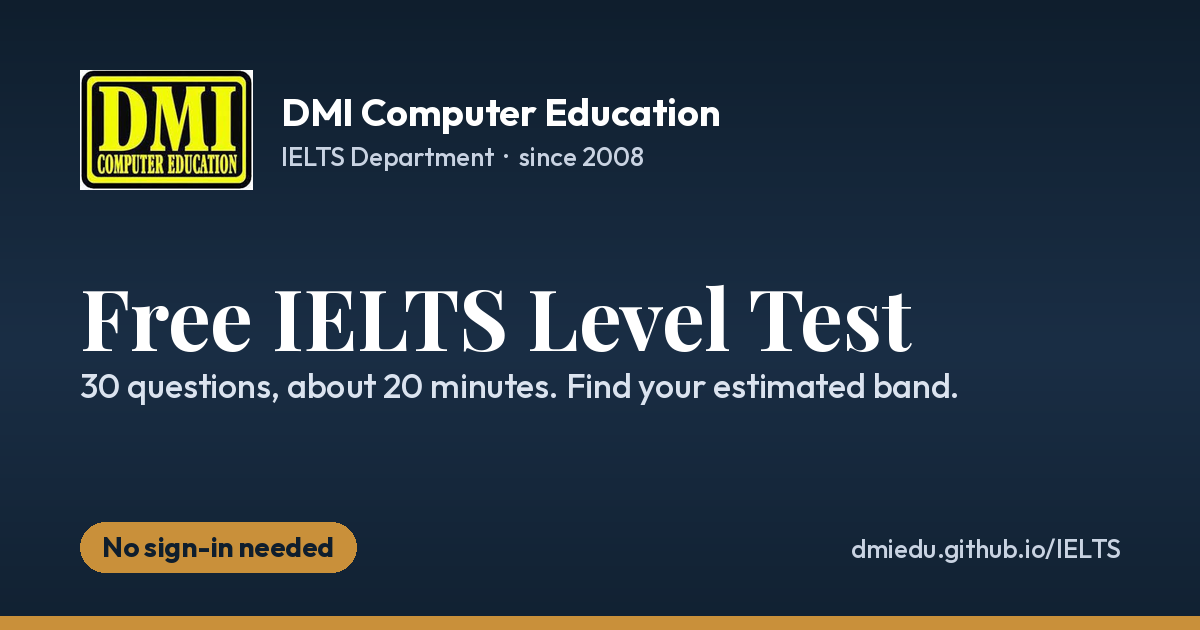
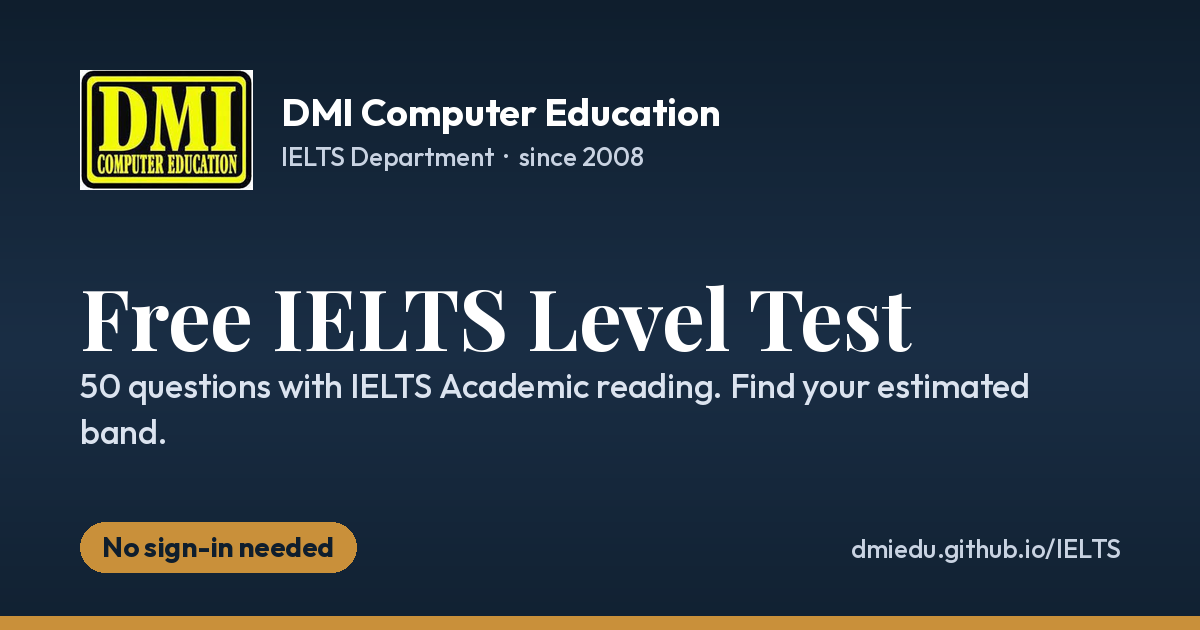
Level test v2: 20 harder questions (C1 grammar/vocab, IELTS Academic reading with T/F/NG and typed answers), hard questions count double, band gates
Claude-Session: https://claude.ai/code/session_01TiCaFNdJkSXZtjbJFcomrq

Changed region(s): [[0.185, 0.573, 0.8633, 0.6333], [0.0617, 0.6635, 0.1542, 0.7238], [0.0617, 0.6032, 0.1233, 0.6333]]

diff --git a/level-test/index.html b/level-test/index.html
@@ -4,10 +4,10 @@
   <meta charset="utf-8">
   <meta name="viewport" content="width=device-width, initial-scale=1">
   <title>Free IELTS Level Test | DMI</title>
-  <meta name="description" content="Free 20-minute English level test from DMI Computer Education. Find your estimated IELTS band in grammar, vocabulary and reading. No sign-in needed.">
+  <meta name="description" content="Free English level check from DMI Computer Education: grammar, vocabulary and an IELTS Academic reading passage. Find your estimated IELTS band. No sign-in needed.">
   <meta property="og:type" content="website">
   <meta property="og:title" content="Free IELTS Level Test | DMI Computer Education">
-  <meta property="og:description" content="30 questions, about 20 minutes. Find your estimated IELTS band for free.">
+  <meta property="og:description" content="50 questions, about 35 minutes, including IELTS Academic reading. Find your estimated band for free.">
   <meta property="og:url" content="https://dmiedu.github.io/IELTS/level-test/">
   <meta property="og:image" content="https://dmiedu.github.io/IELTS/og-level-test.png">
   <meta property="og:image:width" content="1200">
@@ -78,6 +78,12 @@
     .opt.sel { border-color: var(--blue); background: #eaf0f9; }
     .opt.sel .l { background: var(--blue); border-color: var(--blue); color: #fff; }
     .err { color: var(--red); font-weight: 600; font-size: 14.5px; margin: 10px 0 0; }
+    .q-note { margin: 18px 0 8px; font-weight: 700; font-size: 14.5px; color: var(--blue); }
+    .q.hard { border-left: 4px solid var(--gold); }
+    .passage.hard { border-color: var(--gold); }
+    .passage p + p { margin-top: 10px; }
+    .opts.three { grid-template-columns: repeat(3, minmax(0, 1fr)); }
+    .typed { font: inherit; font-size: 16px; padding: 10px 12px; border: 1px solid var(--line); border-radius: 8px; background: var(--soft); color: var(--ink); width: 100%; max-width: 420px; }
 
     .form { display: grid; grid-template-columns: 1fr 1fr; gap: 14px; }
     .form label { display: flex; flex-direction: column; gap: 5px; font-weight: 600; font-size: 14px; min-width: 0; }
@@ -104,7 +110,7 @@
     @media print { body > * { display: none !important; } }
     @media (max-width: 680px) {
       .facts { grid-template-columns: 1fr 1fr; }
-      .opts, .form { grid-template-columns: 1fr; }
+      .opts, .opts.three, .form { grid-template-columns: 1fr; }
       .brand span { display: none; }
       .brand img { height: 34px; }
       .card { padding: 16px; }
@@ -124,19 +130,20 @@
     <!-- Screen 1: intro -->
     <section id="intro">
       <h1>What is your English level for IELTS?</h1>
-      <p class="lede">Take this free test and get your estimated IELTS band in about 20 minutes. No sign-in needed.</p>
+      <p class="lede">Take this free level check and get your estimated IELTS band in about 35 minutes. No sign-in needed.</p>
       <div class="facts">
-        <div class="fact"><b>30</b><span>questions</span></div>
-        <div class="fact"><b>~20</b><span>minutes</span></div>
+        <div class="fact"><b>50</b><span>questions</span></div>
+        <div class="fact"><b>~35</b><span>minutes</span></div>
         <div class="fact"><b>3</b><span>sections</span></div>
         <div class="fact"><b>Free</b><span>no sign-in</span></div>
       </div>
       <div class="card">
         <h2>How it works</h2>
         <ul class="plain">
-          <li><b>Grammar</b>: 10 questions, from easy to hard.</li>
-          <li><b>Vocabulary</b>: 10 questions.</li>
-          <li><b>Reading</b>: two short passages with 5 questions each.</li>
+          <li><b>Grammar</b>: 15 questions, from easy to hard.</li>
+          <li><b>Vocabulary</b>: 15 questions, from everyday to academic words.</li>
+          <li><b>Reading</b>: two short passages and one IELTS Academic passage with True/False/Not Given and typed answers.</li>
+          <li>The last questions in each section are harder and count double. You need good marks on them to get Band 6.0 or above.</li>
           <li>At the end, enter your name and WhatsApp number to see your estimated band. A DMI advisor can then help you plan your IELTS preparation.</li>
         </ul>
         <div class="actions"><button class="go" type="button" id="startBtn">Start the test</button></div>
@@ -145,7 +152,7 @@
 
     <!-- Screen 2: test -->
     <section id="test" hidden>
-      <div class="bar"><div class="progress" aria-hidden="true"><i id="pbar"></i></div><span class="ptxt" id="ptxt">0 / 30 answered</span></div>
+      <div class="bar"><div class="progress" aria-hidden="true"><i id="pbar"></i></div><span class="ptxt" id="ptxt">0 / 50 answered</span></div>
       <div id="paper"></div>
       <p class="err" id="testErr" hidden></p>
       <div class="actions"><button class="go" type="button" id="finishBtn">Finish and see my band</button></div>
@@ -189,9 +196,13 @@
     var RESULTS_URL = "https://script.google.com/macros/s/AKfycbwLkFpHNFGyaKrFv0Lfji6y75OdX13L21l7Q3A81jYujsRSHYigDUgCfqxhcsBUfoKqag/exec";
     var WA = "94777173517"; // DMI WhatsApp hotline 0777 17 35 17
 
-    // [question, correct, wrong, wrong, wrong]  (correct first; options are shuffled for display)
+    // Question formats:
+    //   [question, correct, wrong, wrong, wrong]                 multiple choice (options shuffled)
+    //   { q, tfng: "True" | "False" | "Not Given" }             True / False / Not Given (fixed order)
+    //   { q, typed: ["answer", "variant"], limit: 2 }           typed answer, word limit
+    // hard: true  = Part B question, worth 2 points.
     var SECTIONS = [
-      { key: "grammar", title: "Grammar", sub: "Choose the correct word or words.", qs: [
+      { key: "grammar", title: "Grammar", sub: "Choose the correct word or words. Questions get harder as you go.", qs: [
         ["My sister ____ in a bank in Jaffna.", "works", "work", "working", "is work"],
         ["We ____ to Colombo last weekend.", "went", "go", "have gone", "going"],
         ["There aren't ____ buses on Sunday.", "many", "much", "a few of", "lot"],
@@ -201,7 +212,12 @@
         ["The new hospital ____ by the government in 2019.", "was built", "built", "has built", "was build"],
         ["I'm looking forward to ____ you at the meeting.", "seeing", "see", "saw", "be seen"],
         ["By the time we arrived, the film ____.", "had already started", "already starts", "has already started", "was already start"],
-        ["Hardly ____ the station when the train left.", "had I reached", "I had reached", "I reached", "did I reached"]
+        ["Hardly ____ the station when the train left.", "had I reached", "I had reached", "I reached", "did I reached"],
+        { hard: true, mc: ["Not until the results were published ____ how serious the problem was.", "did we realise", "we realised", "we did realise", "realised we"] },
+        { hard: true, mc: ["If she ____ the instructions more carefully, she wouldn't have made that mistake.", "had read", "read", "would read", "has read"] },
+        { hard: true, mc: ["The project, ____ was funded by an international bank, was completed in 2021.", "which", "that", "who", "what"] },
+        { hard: true, mc: ["The number of applicants ____ risen sharply since 2020.", "has", "have", "are", "is"] },
+        { hard: true, mc: ["Rarely ____ such a clear improvement in a single term.", "have we seen", "we have seen", "we saw", "did we saw"] }
       ]},
       { key: "vocab", title: "Vocabulary", sub: "Choose the best word.", qs: [
         ["Please ____ the form and give it to the receptionist.", "fill in", "fill on", "fill at", "fill with"],
@@ -213,10 +229,15 @@
         ["We need to ____ a decision before Friday.", "make", "do", "get", "put"],
         ["The new law aims to ____ pollution in cities.", "reduce", "rise", "arise", "deduce"],
         ["Despite the heavy rain, the match went ____ as planned.", "ahead", "after", "into", "under"],
-        ["Her argument was so ____ that everyone agreed with her.", "convincing", "confusing", "boring", "weak"]
+        ["Her argument was so ____ that everyone agreed with her.", "convincing", "confusing", "boring", "weak"],
+        { hard: true, mc: ["The new policy had an ____ effect on small farmers, who lost much of their income.", "adverse", "averse", "adversary", "advent"] },
+        { hard: true, mc: ["The evidence is ____: it does not prove anything either way.", "inconclusive", "conclusive", "inclusive", "exclusive"] },
+        { hard: true, mc: ["Governments must ____ the impact of rising prices on poor families.", "mitigate", "militate", "migrate", "magnify"] },
+        { hard: true, mc: ["The report ____ several reasons for the fall in tourism.", "cites", "sights", "sites", "sighted"] },
+        { hard: true, mc: ["A ____ increase is one that is too small to be important.", "negligible", "substantial", "considerable", "remarkable"] }
       ]},
-      { key: "reading", title: "Reading", sub: "Read each passage, then answer the questions.", passages: [
-        { title: "Kamala's Bakery", text: "Kamala opened a small bakery in Point Pedro in 2018. At first she sold only bread and buns, and she baked everything herself, starting at four o'clock every morning. Within two years, the bakery had become so popular that she hired three assistants and added cakes and short eats to the menu. Last year, Kamala started taking orders through WhatsApp. Now almost half of her sales come from online orders, mostly birthday cakes. She says the biggest challenge is not baking but delivery, because she has only one motorbike. Next year, she hopes to open a second shop in Jaffna town.",
+      { key: "reading", title: "Reading", sub: "Read each passage, then answer the questions. Passage 3 is at IELTS Academic level.", passages: [
+        { title: "Passage 1: Kamala's Bakery", text: ["Kamala opened a small bakery in Point Pedro in 2018. At first she sold only bread and buns, and she baked everything herself, starting at four o'clock every morning. Within two years, the bakery had become so popular that she hired three assistants and added cakes and short eats to the menu. Last year, Kamala started taking orders through WhatsApp. Now almost half of her sales come from online orders, mostly birthday cakes. She says the biggest challenge is not baking but delivery, because she has only one motorbike. Next year, she hopes to open a second shop in Jaffna town."],
           qs: [
             ["When did Kamala open her bakery?", "In 2018", "In 2016", "In 2020", "Last year"],
             ["What did she sell at first?", "Only bread and buns", "Cakes and short eats", "Birthday cakes", "Everything on the menu today"],
@@ -224,13 +245,35 @@
             ["What does Kamala say is her biggest challenge?", "Delivery", "Baking", "Finding staff", "Buying flour"],
             ["What does she plan to do next year?", "Open a second shop", "Buy a second motorbike", "Stop taking online orders", "Close the Point Pedro shop"]
           ]},
-        { title: "Sleep and Memory", text: "For many years, scientists believed that sleep was simply a period of rest for the body. Recent research, however, suggests that sleep plays an active role in learning. During deep sleep, the brain appears to replay information gathered during the day, strengthening the connections that turn short-term memories into long-term ones. In one study, students who slept for eight hours after learning a list of new words remembered significantly more of them the next day than students who stayed awake for the same period. Interestingly, the benefit was greatest for words learned shortly before sleeping. Researchers caution, though, that sleep cannot replace study: it consolidates what has already been learned, but it does not create new knowledge.",
+        { title: "Passage 2: Sleep and Memory", text: ["For many years, scientists believed that sleep was simply a period of rest for the body. Recent research, however, suggests that sleep plays an active role in learning. During deep sleep, the brain appears to replay information gathered during the day, strengthening the connections that turn short-term memories into long-term ones. In one study, students who slept for eight hours after learning a list of new words remembered significantly more of them the next day than students who stayed awake for the same period. Interestingly, the benefit was greatest for words learned shortly before sleeping. Researchers caution, though, that sleep cannot replace study: it consolidates what has already been learned, but it does not create new knowledge."],
           qs: [
             ["What did scientists believe about sleep in the past?", "It was only rest for the body", "It helped people learn", "It created new knowledge", "It was harmful to memory"],
             ["According to the passage, what happens during deep sleep?", "The brain replays information from the day", "The brain learns new words", "Short-term memories are deleted", "The body stops working"],
             ["In the study, the students who slept ...", "remembered more of the new words", "remembered fewer of the new words", "learned new words while asleep", "studied for eight hours"],
             ["The word “consolidates” is closest in meaning to ...", "strengthens", "replaces", "forgets", "creates"],
             ["Which statement would the researchers agree with?", "Students still need to study; sleep helps them keep what they learned.", "Students can learn by sleeping instead of studying.", "Sleep is only useful for the body.", "It is best to learn new words early in the morning."]
+          ]},
+        { title: "Passage 3: Cooling the City", hard: true, text: [
+            "A. Cities are often several degrees warmer than the countryside around them, an effect known as the urban heat island. Concrete, asphalt and dark roofs absorb sunlight during the day and release it slowly at night, while the lack of vegetation means there is little evaporation to cool the air. As urban populations grow, city planners are under increasing pressure to reduce this extra heat, which raises energy use for air conditioning and can be dangerous for elderly residents.",
+            "B. One solution that has attracted attention is the green roof, a roof partly or completely covered with plants growing in a thin layer of soil. Early green roofs were mainly decorative, but modern designs are built for performance. A typical ‘extensive’ green roof uses a soil layer of less than fifteen centimetres and hardy, low-growing plants that need little water or maintenance. ‘Intensive’ roofs, by contrast, support shrubs and even small trees, but they are heavier, more expensive and require a stronger building structure.",
+            "C. The cooling effect of green roofs comes from two sources. The plants shade the roof surface, and water evaporating from leaves and soil removes heat from the surrounding air. Measurements on one test building showed that the surface of a green roof on a summer afternoon was more than 20 degrees cooler than a nearby black roof. However, the effect on air temperature at street level is far smaller, because most green roofs are too high and too few to influence the air where people actually walk.",
+            "D. Supporters argue that the benefits go beyond temperature. Green roofs can hold back a large share of rainwater during storms, reducing the load on drainage systems, and they provide habitats for insects and birds. Critics point out that these advantages depend heavily on local climate. In very dry regions, roofs must be watered, and the water used may cancel out much of the environmental gain.",
+            "E. For this reason, many researchers now see green roofs as one tool among several rather than a complete answer. Planting trees along streets, using lighter-coloured paving and designing buildings that allow air to flow freely may achieve greater cooling at street level for a lower cost. The most effective approach, they suggest, is likely to combine several of these measures, chosen to suit the climate and budget of each city."
+          ],
+          intro: "Questions 41–45: Do the statements agree with the information in the passage? Choose TRUE if the statement agrees, FALSE if it contradicts the passage, and NOT GIVEN if there is no information about it.",
+          qs: [
+            { hard: true, q: "Cities are usually warmer than the countryside around them.", tfng: "True" },
+            { hard: true, q: "Extensive green roofs need a stronger building structure than intensive roofs.", tfng: "False" },
+            { hard: true, q: "Green roofs were first developed in Germany.", tfng: "Not Given" },
+            { hard: true, q: "Green roofs greatly reduce air temperature at street level.", tfng: "False" },
+            { hard: true, q: "In dry regions, watering green roofs may reduce their environmental benefits.", tfng: "True" },
+            { hard: true, note: "Questions 46–48: Complete the sentences. Write NO MORE THAN TWO WORDS from the passage for each answer.",
+              q: "Dark surfaces in cities absorb heat in the day and release it slowly ____.", typed: ["at night"], limit: 2 },
+            { hard: true, q: "Extensive green roofs use plants that are hardy and ____.", typed: ["low-growing", "low growing"], limit: 2 },
+            { hard: true, q: "During storms, green roofs reduce the load on ____.", typed: ["drainage systems", "drainage system", "drainage"], limit: 2 },
+            { hard: true, note: "Questions 49–50: Choose the correct answer.",
+              mc: ["Why do green roofs have only a small cooling effect at street level?", "Most green roofs are too high and too few", "Plants do not shade the roof surface", "Water does not evaporate from green roofs", "The air at street level is already cool"] },
+            { hard: true, mc: ["What is the main conclusion of paragraph E?", "Green roofs work best combined with other measures", "Green roofs should replace street trees", "Green roofs are too expensive for most cities", "Lighter-coloured paving is the only useful solution"] }
           ]}
       ]}
     ];
@@ -238,15 +281,26 @@
     var LET = "ABCD", items = [], answers = {}, n = 0;
     function esc(s) { return String(s).replace(/[&<>"]/g, function (c) { return { "&": "&amp;", "<": "&lt;", ">": "&gt;", '"': "&quot;" }[c]; }); }
     function seeded(k) { var s = k * 9301 + 49297; return function () { s = (s * 9301 + 49297) % 233280; return s / 233280; }; }
-    function makeItem(q, section) {
+    function makeItem(raw, section) {
       n++;
-      var rnd = seeded(n + 11), order = [0, 1, 2, 3];
-      for (var k = 3; k > 0; k--) { var j = Math.floor(rnd() * (k + 1)); var x = order[k]; order[k] = order[j]; order[j] = x; }
-      var it = { n: n, q: q[0], opts: order.map(function (o) { return q[1 + o]; }), correct: order.indexOf(0), section: section };
+      var it = { n: n, section: section, hard: !!raw.hard, note: raw.note || "" };
+      if (raw.tfng) { it.kind = "mc"; it.q = raw.q; it.opts = ["True", "False", "Not Given"]; it.correct = it.opts.indexOf(raw.tfng); }
+      else if (raw.typed) { it.kind = "typed"; it.q = raw.q; it.accept = raw.typed; it.limit = raw.limit || 2; }
+      else {
+        var q = Array.isArray(raw) ? raw : raw.mc;
+        var rnd = seeded(n + 11), order = [0, 1, 2, 3];
+        for (var k = 3; k > 0; k--) { var j = Math.floor(rnd() * (k + 1)); var x = order[k]; order[k] = order[j]; order[j] = x; }
+        it.kind = "mc"; it.q = q[0]; it.opts = order.map(function (o) { return q[1 + o]; }); it.correct = order.indexOf(0);
+      }
       items.push(it); return it;
     }
     function qHtml(it) {
-      var h = '<div class="q" id="q' + it.n + '"><div class="q-h"><span class="q-n">' + it.n + ".</span><span>" + esc(it.q) + '</span></div><div class="opts" role="radiogroup" aria-label="Question ' + it.n + '">';
+      var h = (it.note ? '<p class="q-note">' + esc(it.note) + "</p>" : "") +
+        '<div class="q' + (it.hard ? " hard" : "") + '" id="q' + it.n + '"><div class="q-h"><span class="q-n">' + it.n + ".</span><span>" + esc(it.q) + "</span></div>";
+      if (it.kind === "typed") {
+        return h + '<input class="typed" type="text" autocomplete="off" autocapitalize="off" spellcheck="false" data-q="' + it.n + '" aria-label="Answer to question ' + it.n + '" placeholder="Type your answer (no more than ' + it.limit + ' words)"></div>';
+      }
+      h += '<div class="opts' + (it.opts.length === 3 ? " three" : "") + '" role="radiogroup" aria-label="Question ' + it.n + '">';
       it.opts.forEach(function (o, i) { h += '<label class="opt"><input type="radio" name="q' + it.n + '" value="' + i + '" data-q="' + it.n + '"><span class="l">' + LET[i] + "</span><span>" + esc(o) + "</span></label>"; });
       return h + "</div></div>";
     }
@@ -256,11 +310,16 @@
       html += '<div class="section-h"><span class="n">' + (si + 1) + "</span><div><h2>" + esc(s.title) + "</h2><p>" + esc(s.sub) + "</p></div></div>";
       if (s.passages) {
         s.passages.forEach(function (p) {
-          html += '<div class="passage"><h3>' + esc(p.title) + "</h3><p>" + esc(p.text) + "</p></div>";
+          html += '<div class="passage' + (p.hard ? " hard" : "") + '"><h3>' + esc(p.title) + "</h3>" + p.text.map(function (t) { return "<p>" + esc(t) + "</p>"; }).join("") + "</div>";
+          if (p.intro) html += '<p class="q-note">' + esc(p.intro) + "</p>";
           p.qs.forEach(function (q) { html += qHtml(makeItem(q, s.key)); });
         });
       } else {
-        s.qs.forEach(function (q) { html += qHtml(makeItem(q, s.key)); });
+        var shownHard = false;
+        s.qs.forEach(function (q) {
+          if (q.hard && !shownHard) { shownHard = true; html += '<p class="q-note">Harder questions (Band 6.5 and above)</p>'; }
+          html += qHtml(makeItem(q, s.key));
+        });
       }
     });
     document.getElementById("paper").innerHTML = html;
@@ -269,18 +328,28 @@
     function show(id) { ["intro", "test", "details", "resultBox"].forEach(function (s) { document.getElementById(s).hidden = s !== id; }); window.scrollTo(0, 0); }
     document.getElementById("startBtn").addEventListener("click", function () { show("test"); });
 
-    document.getElementById("paper").addEventListener("change", function (e) {
-      var q = e.target.dataset.q; if (!q) return;
-      answers[q] = Number(e.target.value);
-      document.querySelectorAll("#q" + q + " .opt").forEach(function (l) { l.classList.toggle("sel", l.querySelector("input").checked); });
-      var c = Object.keys(answers).length;
+    function answeredCount() { return Object.keys(answers).filter(function (k) { return answers[k] !== "" && answers[k] !== undefined; }).length; }
+    function updateProgress() {
+      var c = answeredCount();
       document.getElementById("pbar").style.width = (c / TOTAL * 100) + "%";
       document.getElementById("ptxt").textContent = c + " / " + TOTAL + " answered";
+    }
+    var paper = document.getElementById("paper");
+    paper.addEventListener("change", function (e) {
+      var q = e.target.dataset.q; if (!q || e.target.type !== "radio") return;
+      answers[q] = Number(e.target.value);
+      document.querySelectorAll("#q" + q + " .opt").forEach(function (l) { l.classList.toggle("sel", l.querySelector("input").checked); });
+      updateProgress();
+    });
+    paper.addEventListener("input", function (e) {
+      var q = e.target.dataset.q; if (!q || !e.target.classList.contains("typed")) return;
+      answers[q] = e.target.value.trim();
+      updateProgress();
     });
 
     var forced = false;
     document.getElementById("finishBtn").addEventListener("click", function () {
-      var missing = TOTAL - Object.keys(answers).length, err = document.getElementById("testErr");
+      var missing = TOTAL - answeredCount(), err = document.getElementById("testErr");
       if (missing && !forced) {
         forced = true; err.hidden = false;
         err.textContent = missing + " question" + (missing > 1 ? "s are" : " is") + " not answered. Unanswered questions get no mark. Press the button again to finish anyway.";
@@ -289,14 +358,33 @@
       err.hidden = true; show("details");
     });
 
-    function bandFor(score) {
-      if (score >= 28) return { band: "7.0+", cefr: "C1", next: "You are close to the top bands. Focus on Writing Task 2 and Speaking Part 3 to secure 7.0 or above." };
-      if (score >= 25) return { band: "6.5", cefr: "B2", next: "A strong level. Timed practice and Writing feedback can lift you to 7.0." };
-      if (score >= 22) return { band: "6.0", cefr: "B2", next: "A good base. Our IELTS course will build the vocabulary and exam skills you need for 6.5 to 7.0." };
-      if (score >= 18) return { band: "5.5", cefr: "B1", next: "You can follow everyday English. Grammar and vocabulary practice will move you to Band 6." };
-      if (score >= 14) return { band: "5.0", cefr: "B1", next: "Start with a strong English foundation, then move to IELTS exam practice." };
-      if (score >= 10) return { band: "4.5", cefr: "A2–B1", next: "We recommend DMI Spoken English first, then the IELTS course." };
-      return { band: "4.0 or below", cefr: "A2", next: "Build your basic English first with DMI Spoken English. It is the fastest route to IELTS." };
+    function norm(s) { return String(s || "").toLowerCase().replace(/[‘’']/g, "").replace(/[.,;:!?"]/g, " ").replace(/\s+/g, " ").trim(); }
+    function isRight(it) {
+      var a = answers[it.n];
+      if (it.kind === "typed") {
+        if (!a) return false;
+        var v = norm(a);
+        if (v.split(" ").length > it.limit) return false;   // over the word limit is wrong, as in IELTS
+        return it.accept.some(function (x) { return norm(x) === v; });
+      }
+      return a === it.correct;
+    }
+
+    // Strict scoring: Part A questions = 1 point, Part B (hard) = 2 points; max 70.
+    // Higher bands also need a minimum Part B score, so easy questions alone cannot give a high band.
+    var LEVELS = [
+      { min: 67, hardMin: 18, band: "7.5", cefr: "C1", next: "A very strong level. Timed full mock tests and Writing feedback will help you secure 7.5 or above." },
+      { min: 63, hardMin: 15, band: "7.0", cefr: "C1", next: "A strong level. Focus on Writing Task 2 and Speaking Part 3 to reach 7.0 in the real test." },
+      { min: 57, hardMin: 12, band: "6.5", cefr: "B2", next: "Good academic English. Exam technique and Writing practice can move you to 7.0." },
+      { min: 50, hardMin: 8, band: "6.0", cefr: "B2", next: "A good base. Our IELTS course will build the academic reading and vocabulary you need for 6.5 to 7.0." },
+      { min: 43, hardMin: 4, band: "5.5", cefr: "B1", next: "You understand everyday English, but academic texts are still difficult. Our IELTS course builds this step by step." },
+      { min: 35, hardMin: 0, band: "5.0", cefr: "B1", next: "Strengthen your grammar and vocabulary first, then move to IELTS exam practice." },
+      { min: 25, hardMin: 0, band: "4.5", cefr: "A2–B1", next: "We recommend DMI Spoken English first, then the IELTS course." },
+      { min: 0, hardMin: 0, band: "4.0 or below", cefr: "A2", next: "Build your basic English first with DMI Spoken English. It is the fastest route to IELTS." }
+    ];
+    function bandFor(points, hardRight) {
+      for (var i = 0; i < LEVELS.length; i++) { if (points >= LEVELS[i].min && hardRight >= LEVELS[i].hardMin) return LEVELS[i]; }
+      return LEVELS[LEVELS.length - 1];
     }
 
     document.getElementById("leadForm").addEventListener("submit", function (e) {
@@ -314,27 +402,30 @@
       if (problem) { err.hidden = false; err.textContent = problem; return; }
       err.hidden = true;
 
-      var per = { grammar: 0, vocab: 0, reading: 0 }, score = 0;
-      items.forEach(function (it) { if (answers[it.n] === it.correct) { score++; per[it.section]++; } });
-      var b = bandFor(score);
-      renderResult(name, score, per, b);
-      var payload = { type: "lead", source: "Free level test", name: name, phone: phone, branch: branch, purpose: purpose, when: when, score: score, total: TOTAL, band: b.band, grammar: per.grammar, vocab: per.vocab, reading: per.reading };
+      var per = { grammar: [0, 0], vocab: [0, 0], reading: [0, 0] }, score = 0, points = 0, hardRight = 0;
+      items.forEach(function (it) {
+        per[it.section][1]++;
+        if (isRight(it)) { score++; per[it.section][0]++; points += it.hard ? 2 : 1; if (it.hard) hardRight++; }
+      });
+      var b = bandFor(points, hardRight);
+      renderResult(name, score, per, b, hardRight);
+      var payload = { type: "lead", source: "Free level test v2", name: name, phone: phone, branch: branch, purpose: purpose, when: when, score: score, total: TOTAL, band: b.band, grammar: per.grammar[0], vocab: per.vocab[0], reading: per.reading[0] };
       try { fetch(RESULTS_URL, { method: "POST", mode: "no-cors", headers: { "Content-Type": "text/plain;charset=utf-8" }, body: JSON.stringify(payload) }).catch(function () {}); } catch (x) {}
     });
 
-    function renderResult(name, score, per, b) {
+    function renderResult(name, score, per, b, hardRight) {
       var first = name.split(" ")[0];
-      var msg = "Hello DMI, I took the free IELTS Level Test. My estimated band is " + b.band + " (" + score + "/" + TOTAL + "). I would like to know about IELTS classes.";
-      var rows = [["Grammar", per.grammar], ["Vocabulary", per.vocab], ["Reading", per.reading]].map(function (r) {
-        var f = r[1] / 10, col = f >= .75 ? "var(--green)" : f >= .5 ? "var(--gold)" : "var(--red)";
-        return '<div class="row"><span>' + r[0] + '</span><div class="t"><i style="width:' + (f * 100) + "%;background:" + col + '"></i></div><span class="v">' + r[1] + "/10</span></div>";
+      var msg = "Hello DMI, I took the free IELTS Level Test. My estimated level is Band " + b.band + " (" + score + "/" + TOTAL + "). I would like to know about IELTS classes.";
+      var rows = [["Grammar", per.grammar], ["Vocabulary", per.vocab], ["Reading", per.reading], ["Harder questions", [hardRight, 20]]].map(function (r) {
+        var f = r[1][0] / r[1][1], col = f >= .75 ? "var(--green)" : f >= .5 ? "var(--gold)" : "var(--red)";
+        return '<div class="row"><span>' + r[0] + '</span><div class="t"><i style="width:' + (f * 100) + "%;background:" + col + '"></i></div><span class="v">' + r[1][0] + "/" + r[1][1] + "</span></div>";
       }).join("");
       document.getElementById("resultBox").innerHTML =
-        '<div class="card result"><p style="margin:0;color:var(--muted);font-weight:600">' + esc(first) + ", your estimated IELTS level</p>" +
-        '<div class="band"><big>Band ' + esc(b.band) + "</big><span>" + score + "/" + TOTAL + " &middot; CEFR " + esc(b.cefr) + "</span></div>" +
+        '<div class="card result"><p style="margin:0;color:var(--muted);font-weight:600">' + esc(first) + ", your level check result</p>" +
+        '<div class="band"><big>Band ' + esc(b.band) + "</big><span>estimated &middot; " + score + "/" + TOTAL + " correct &middot; CEFR " + esc(b.cefr) + "</span></div>" +
         '<div class="rows">' + rows + "</div>" +
         '<p style="margin:12px 0 0;font-size:16px">' + esc(b.next) + "</p>" +
-        '<div class="note">This is an estimate from grammar, vocabulary and reading only. Your real IELTS band also depends on Listening, Writing and Speaking. A DMI advisor will contact you on WhatsApp to explain your result and the best course for you.</div>' +
+        '<div class="note">This is a level check, not an official IELTS score. It tests grammar, vocabulary and reading only; your real band also depends on Listening, Writing and Speaking. Harder questions count double, and higher bands need good marks on them. A DMI advisor will contact you on WhatsApp to explain your result.</div>' +
         '<div class="actions"><a class="go wa" href="https://wa.me/' + WA + "?text=" + encodeURIComponent(msg) + '" target="_blank" rel="noopener">Chat with DMI on WhatsApp</a>' +
         '<a class="go ghost" href="../vocabulary/">Free IELTS vocabulary</a><a class="go ghost" href="../band-calculator/">Band score calculator</a></div>' +
         '<p class="send">WhatsApp: 0777 17 35 17 &middot; All branches open every day, 8:00 AM to 5:30 PM.</p></div>';

diff --git a/index.html b/index.html
@@ -1095,7 +1095,7 @@
           <a href="video%20tutorial/index.html">Video Tutorial LMS <span>Open</span></a>
           <a href="knowledge-check/">IELTS Knowledge Check <span>Take test</span></a>
           <a href="vocabulary/">IELTS Vocabulary <span>New</span></a>
-          <a href="level-test/">Free IELTS Level Test <span>20 min</span></a>
+          <a href="level-test/">Free IELTS Level Test <span>35 min</span></a>
           <a href="band-calculator/">IELTS Band Calculator <span>Free tool</span></a>
           <a href="#speaking-questions">IELTS Speaking Questions <span>New</span></a>
         </div>
@@ -1212,7 +1212,7 @@
         <a class="option-card" href="level-test/">
           <span>
             <strong>Free IELTS Level Test</strong>
-            <span>30 questions in about 20 minutes. Grammar, vocabulary and reading. Get your estimated IELTS band, with no sign-in.</span>
+            <span>50 questions in about 35 minutes, including an IELTS Academic reading passage. Get your estimated IELTS band, with no sign-in.</span>
           </span>
           <em>Take the test</em>
         </a>
